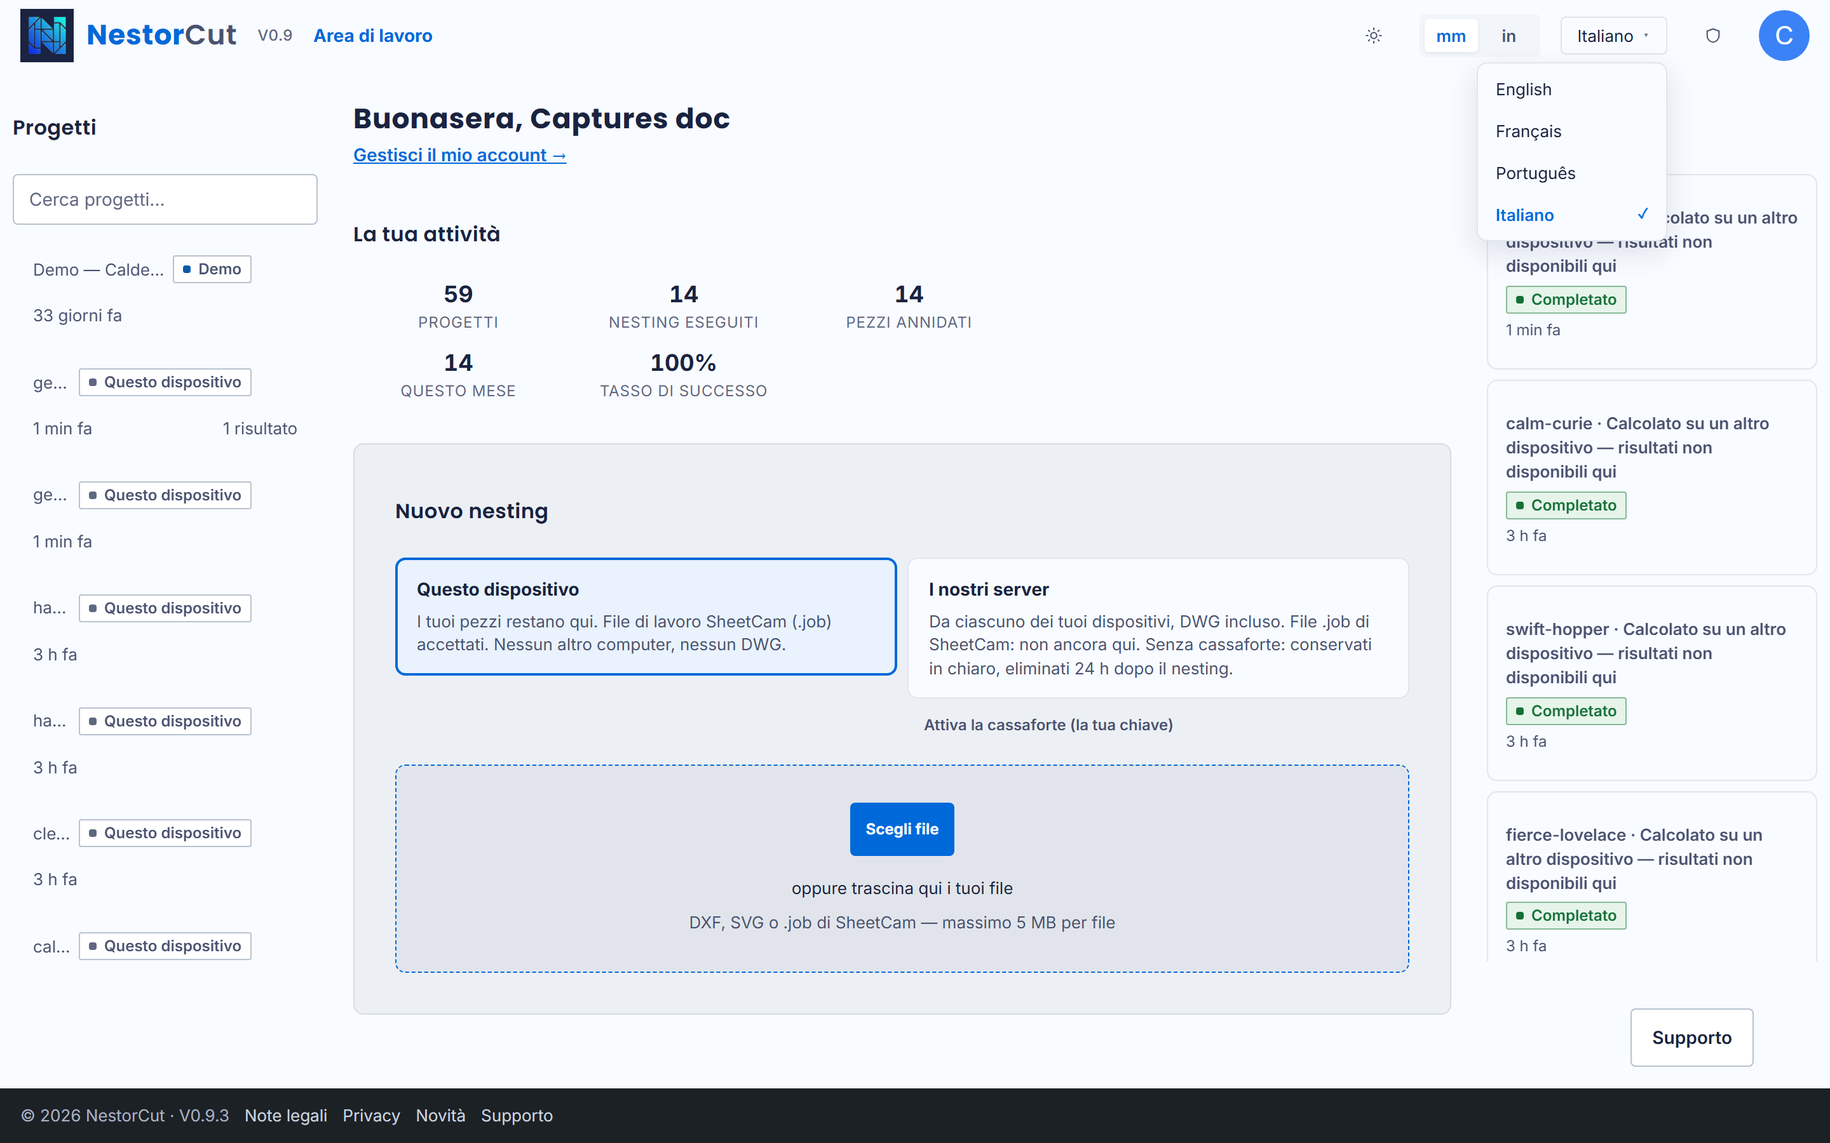
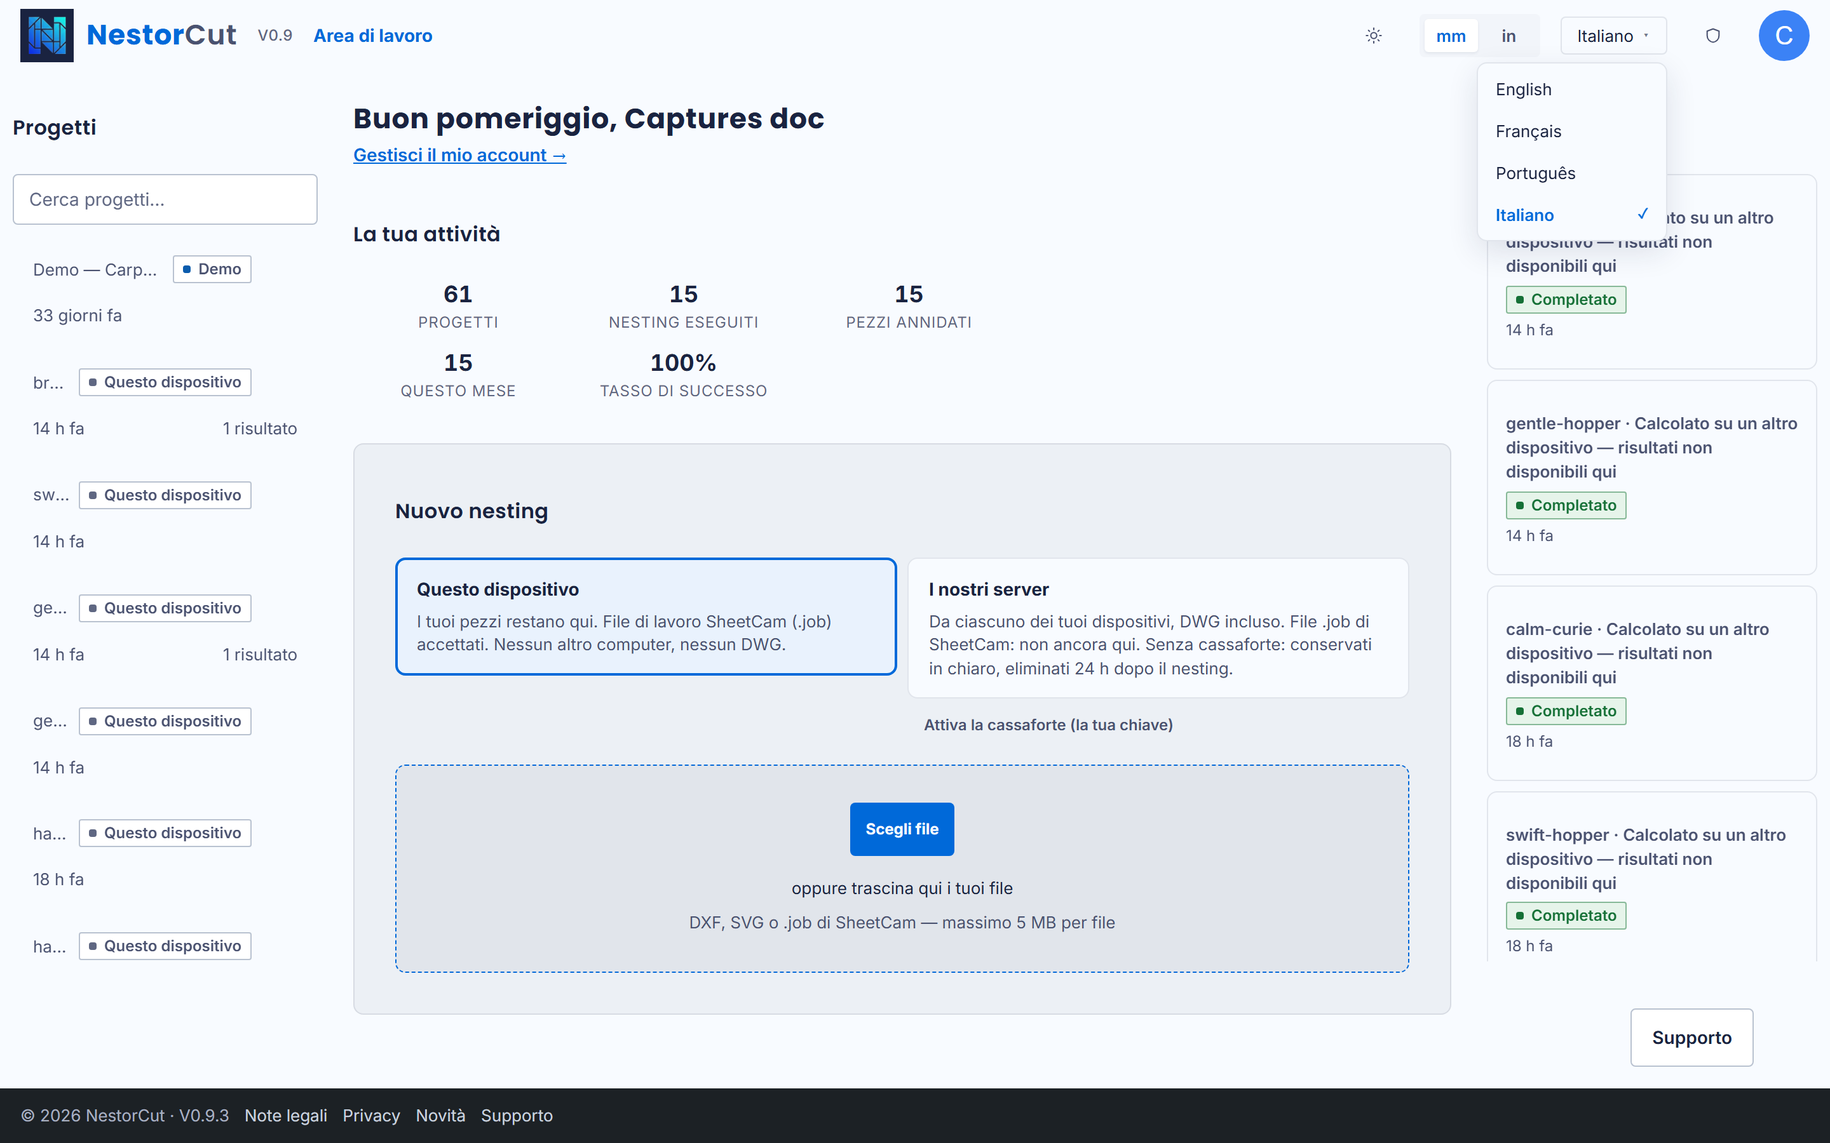
fix(i18n,units): révision paquet A L2 — longueurs à la locale (defaut FR corrige aussi), 9 corrections + 3 retouches IT
fmtLength/fmtLengthValue passent par Intl avec la balise de la langue
(useUnit traverse, comme fmtArea) ; useGrouping: false garde les
milliers non groupes comme trimFixed ; l'export CSV reste au point
(util brut). Verrou units.test.js : 1040,4 mm en it/fr, 1040.4 en en.
Neuf corrections de langue + trois retouches de la relecture. Captures
reprises : 15 sondes vertes, la capture 06 montre « Distanza >= 5,87 mm ».

diff --git a/app/utils/i18n/it.js b/app/utils/i18n/it.js
@@ -82,7 +82,7 @@ export default {
     "sub.error.startPro": "Impossibile avviare l'abbonamento Pro. Riprova.",
     "sub.error.cancel": "Impossibile disdire l'abbonamento. Riprova.",
     "plans.title": "Piani e prezzi",
-    "plans.subtitle": "Inizia gratis, passa oltre quando il risparmio di materiale parla da solo.",
+    "plans.subtitle": "Inizia gratis, passa a un piano superiore quando il risparmio di materiale parla da solo.",
     "plans.interval.forever": "per sempre",
     "plans.interval.month": "mese",
     "plans.compare": "Confronta i piani",
@@ -98,7 +98,7 @@ export default {
     "plans.free.f2": "Stesso risultato pienamente ottimizzato dei piani a pagamento",
     "plans.free.f3": "Esportazione DXF e ZIP",
     "plans.free.f4": "Cassaforte zero-knowledge (facoltativa)",
-    "plans.unlimited.desc": "Per maker e officine che annidano ogni settimana.",
+    "plans.unlimited.desc": "Per carpenterie e officine che fanno nesting ogni settimana.",
     "plans.unlimited.f1": "Operazioni di nesting illimitate",
     "plans.unlimited.f2": "3 direzioni di ottimizzazione per lavoro",
     "plans.unlimited.f3": "Lavori multi-lamiera",
@@ -106,7 +106,7 @@ export default {
     "plans.unlimited.f5": "Cassaforte zero-knowledge (facoltativa)",
     "plans.pro.desc": "Budget motore massimo e consegna prioritaria.",
     "plans.pro.f1": "Tutto ciò che è in Unlimited",
-    "plans.pro.f2": "8 nuclei di calcolo — consegna la più rapida",
+    "plans.pro.f2": "8 nuclei di calcolo — la consegna più rapida",
     "plans.pro.f3": "Coda prioritaria",
     "plans.cta.startFree": "Inizia gratis",
     "plans.cta.startTrial": "Avvia la prova di {days} giorni",
@@ -177,7 +177,7 @@ export default {
     "settings.fillHoles": "Annida nei fori",
     "settings.fillHolesHint": "Quando attivo, i pezzi più piccoli possono essere collocati dentro i ritagli interni dei pezzi forati. Disattivalo per tenere i ritagli vuoti.",
     "demo.badge": "Demo",
-    "demo.projectName": "Demo — Caldereria navale",
+    "demo.projectName": "Demo — Carpenteria navale",
     "demo.banner": "Progetto di esempio in sola lettura: {n} nesting demo gratuiti al mese, qualità piena del motore nel tuo browser (1 direzione per nesting, a scelta tra 3). Quantità e impostazioni sono regolabili — provala pure.",
     "demo.bannerLocal": "Progetto di esempio in sola lettura, calcolato su questo dispositivo — nesting demo illimitati. Una direzione per esecuzione, a scelta tra 3. Quantità e impostazioni sono regolabili.",
     "demo.remaining": "{n} / {total} nesting demo rimasti questo mese",
@@ -249,10 +249,10 @@ export default {
     "import.unitImplausible": "Il file dichiara {value} — geometria convertita come dichiarato. Controlla le dimensioni prima di tagliare.",
     "import.splinesSampled": "{n} spline campionate.",
     "import.microVoidsFilled": "{n} micro-ritagli ignorati (troppo piccoli per essere tagliati) — il materiale resta al suo posto.",
-    "import.spursRemoved": "{n} andata-e-ritorno a larghezza zero ripulite.",
-    "import.scaleApplied": "Disegno scalato di ×{value} all'importazione.",
+    "import.spursRemoved": "{n} tracciati di andata e ritorno a larghezza zero rimossi.",
+    "import.scaleApplied": "Disegno ridimensionato ×{value} all'importazione.",
     "import.partRank": "pezzo {n}",
-    "nest.thinParts": "{n} pezzo/i con linee più sottili della distanza richiesta ({list}) — il motore li ha preparati in modo diverso; controllali prima di tagliare.",
+    "nest.thinParts": "{n} pezzo/i con tratti più sottili della distanza richiesta ({list}) — il motore li ha preparati in modo diverso; controllali prima di tagliare.",
     "import.blocksFlattened": "{n} blocchi appiattiti.",
     "import.andMore": "e altri {n}",
     "import.findingsTitle": "Rapporto di importazione",
@@ -387,7 +387,7 @@ export default {
     "live.evalsTitle": "Combinazioni di posizionamento valutate finora (tutti i worker sommati)",
     "live.combinations": "combinazioni",
     "live.layouts": "disposizioni",
-    "live.layoutsTitle": "Ricostruzioni complete del packing provate finora — ognuna colloca ogni pezzo",
+    "live.layoutsTitle": "Ricostruzioni complete del nesting provate finora — ognuna colloca ogni pezzo",
     "live.cores": "nuclei",
     "live.finishing": "Completamento dell'ultima lamiera",
     "live.elapsed": "trascorso",
@@ -395,8 +395,8 @@ export default {
     "live.score": "densità della striscia",
     "live.scoreTitle": "Utilizzo della lamiera della migliore disposizione attuale",
     "live.waiting": "Cerco una prima disposizione…",
-    "live.statusLine": "Ricerca · {time} · migliore {score} · {n} ricerca/ricerche in parallelo · si ferma da solo allo stallo",
-    "live.statusLine.noScore": "Ricerca · {time} · {n} ricerca/ricerche in parallelo · si ferma da solo allo stallo",
+    "live.statusLine": "Ricerca · {time} · migliore {score} · {n} ricerca/ricerche in parallelo · arresto automatico allo stallo",
+    "live.statusLine.noScore": "Ricerca · {time} · {n} ricerca/ricerche in parallelo · arresto automatico allo stallo",
     "live.holesNote": "i pezzi annidati nei ritagli compaiono nel risultato finale",
     "nest.coresTitle": "{n} nucleo/i di calcolo al lavoro",
     "alts.strategy.left": "–X",
@@ -405,7 +405,7 @@ export default {
     "alts.strategy.grid": "Griglia",
     "alts.strategy.max offcut": "Max ritaglio",
     "alts.strategy.compact": "Compatto",
-    "alts.explain.grid": "File regolari — tagli prevedibili, ritaglio riutilizzabile più pulito. Proposta quando il motivo dei pezzi si presta.",
+    "alts.explain.grid": "Righe regolari — tagli prevedibili, ritaglio riutilizzabile più pulito. Proposta quando il motivo dei pezzi si presta.",
     "alts.explain.compact": "Disposizione più serrata — minimizza la superficie usata.",
     "report.utilization": "Utilizzo della lamiera",
     "report.areas": "{parts} di pezzi · {free} liberi",
@@ -415,7 +415,7 @@ export default {
     "report.insideSheet": "Dentro la lamiera",
     "report.spacing": "Distanza ≥ {v} {unit}",
     "report.allPlaced": "Tutti i {n} pezzi collocati",
-    "report.postPass": "Post-pass: {n} spostati{rb}{e}",
+    "report.postPass": "Post-elaborazione: {n} spostati{rb}{e}",
     "report.notVerified": "Non verificato",
     "report.duplicates": "{n} pose duplicate",
     "report.unplaced": "{n} pezzi non collocati (stock limitato)",
@@ -488,7 +488,7 @@ export default {
     "upload.rejectedServer": "Ignorati — {names}: sui nostri server sono accettati solo DXF, SVG e DWG.",
     "upload.dwgNamed": "Ignorati — {names}: i file DWG vengono convertiti sui nostri server — scegli \"I nostri server\" per questi.",
     "upload.oversizeNamed": "Ignorati — {names}: ogni file deve essere al massimo 5 MB.",
-    "home.jobSwitched": "Rilevato un .job di SheetCam — progetto passato a \"Questo dispositivo\", la modalità che li annida.",
+    "home.jobSwitched": "Rilevato un .job di SheetCam — progetto passato a \"Questo dispositivo\" per elaborarlo.",
     "home.jobPlusDwg": "Un .job di SheetCam richiede \"Questo dispositivo\"; un DWG richiede \"I nostri server\". Caricali in due progetti separati.",
     "jobImport.keepoutDeclared": "Questo file di lavoro dichiara una zona di esclusione sulla lamiera (Work/keepout) che NestorCut non può ancora rispettare — il nesting potrebbe collocare pezzi al suo interno.",
     "jobImport.userPoint": "Punto di partenza posizionato a mano — lasciato così com'è.",
@@ -533,7 +533,7 @@ export default {
     "result.densityShort": "materiale",
     "result.offcutShort": "ritaglio {w} × {h}",
     "result.whyFirst": "Mostrata per prima — ritaglio pulito più grande",
-    "result.whyFirstGrid": "Mostrata per prima — file regolari, tagli prevedibili",
+    "result.whyFirstGrid": "Mostrata per prima — righe regolari, tagli prevedibili",
     "result.sheetsCount": "{n} lamiere",
     "result.sheetsCountOne": "1 lamiera",
     "result.sheetOffcut": "Ritaglio della lamiera {n}: {w} × {h} {unit}",

diff --git a/app/tests/units.test.js b/app/tests/units.test.js
@@ -1,0 +1,35 @@
+// Relecture A L2 (20/09) — les LONGUEURS suivent la langue, comme les
+// aires depuis L1. Le point décimal « 1040.4 mm » était un défaut produit
+// EN PRODUCTION FRANÇAISE, sorti de la capture italienne du paquet A
+// (badge « Distanza ≥ 5.87 mm » avec un point, là où la carte écrivait
+// « 1,24 m² » avec une virgule). Verrou exigé par la relecture :
+// fmtLength(1040.4, 'mm', 'it'|'fr') ⇒ « 1040,4 mm », 'en' ⇒ « 1040.4 mm ».
+import { describe, expect, it } from 'vitest'
+import { fmtLength, fmtLengthValue } from '../utils/units'
+
+describe('fmtLength suit la locale (relecture A L2)', () => {
+    it('la virgule décimale suit la langue de l\'application', () => {
+        expect(fmtLength(1040.4, 'mm', 'it')).toBe('1040,4 mm')
+        expect(fmtLength(1040.4, 'mm', 'fr')).toBe('1040,4 mm')
+        expect(fmtLength(1040.4, 'mm', 'pt')).toBe('1040,4 mm')
+        expect(fmtLength(1040.4, 'mm', 'en')).toBe('1040.4 mm')
+    })
+
+    it('l\'espacement du badge : 5,87 en FR/IT, 5.87 en EN', () => {
+        expect(fmtLengthValue(5.87, 'mm', 2, 'it')).toBe('5,87')
+        expect(fmtLengthValue(5.87, 'mm', 2, 'fr')).toBe('5,87')
+        expect(fmtLengthValue(5.87, 'mm', 2, 'en')).toBe('5.87')
+    })
+
+    it('sans locale (chemins machine — export CSV), le point reste', () => {
+        expect(fmtLengthValue(1040.4, 'mm')).toBe('1040.4')
+        expect(fmtLengthValue(5.87, 'mm', 2)).toBe('5.87')
+    })
+
+    it('zéros de queue trimmés, entiers entiers, pouces localisés', () => {
+        expect(fmtLengthValue(1000.0, 'mm', undefined, 'fr')).toBe('1000')
+        // 48,5 mm = 1,909" — la valeur d'entrée est TOUJOURS en mm.
+        expect(fmtLengthValue(48.5, 'inch', undefined, 'en')).toBe('1.909')
+        expect(fmtLengthValue(48.9, 'inch', undefined, 'fr')).toBe('1,925')
+    })
+})

diff --git a/app/utils/units.js b/app/utils/units.js
@@ -123,19 +123,30 @@ function trimFixed(v, decimals) {
  * strings). mm: 0.1 resolution; inch: 0.001" resolution (0.0254 mm — far
  * below any real kerf, so display rounding has no business impact).
  * Pass `decimals` to override (e.g. 2 for sub-mm spacing gaps).
+ *
+ * Relecture A L2 (20/09) : les LONGUEURS passent par Intl comme les aires —
+ * un FR/IT lit « 1040,4 mm », pas « 1040.4 mm » (défaut produit sorti de la
+ * capture italienne, présent en prod FR). Sans locale (chemins machine :
+ * export CSV — la virgule y casserait les colonnes), 'en' garde le point.
  */
-export function fmtLengthValue(mm, unit, decimals) {
+export function fmtLengthValue(mm, unit, decimals, locale) {
     const v = mmToDisplay(mm, unit)
     if (!Number.isFinite(v)) return '—'
     const d = decimals ?? (unit === 'inch' ? 3 : 1)
-    return trimFixed(v, d)
+    // useGrouping: false — le verrou exige « 1040,4 mm » (et l'ancien
+    // trimFixed ne groupait JAMAIS les milliers : pas de regression).
+    return new Intl.NumberFormat(intlTag(locale || 'en'), {
+        minimumFractionDigits: 0,
+        maximumFractionDigits: d,
+        useGrouping: false,
+    }).format(v)
 }
 
 /**
  * Length for display (includes the unit suffix).
  */
-export function fmtLength(mm, unit) {
-    const s = fmtLengthValue(mm, unit)
+export function fmtLength(mm, unit, locale) {
+    const s = fmtLengthValue(mm, unit, undefined, locale)
     if (s === '—') return s
     return unit === 'inch' ? `${s}"` : `${s} mm`
 }

diff --git a/app/components/ResultModal.vue b/app/components/ResultModal.vue
@@ -50,7 +50,7 @@ import { sizeType } from '~~/constants/size.constants'
 import { themeType } from '~~/constants/theme.constants'
 import { statusType } from '~~/constants/status.constants'
 import { trackEvent } from '~/utils/track'
-import { SQMM_PER_SQIN } from '~/utils/units'
+import { SQMM_PER_SQIN, fmtLengthValue as fmtLengthValueRaw } from '~/utils/units'
 import { displayDirectionArrow } from '~/utils/sheetView'
 import { onMounted, nextTick } from 'vue'
 import { reportExportState } from '~/utils/reportExport'
@@ -413,7 +413,9 @@ const exportCsv = () => {
     const isInch = unref(unit) === 'inch'
     const lenUnit = isInch ? 'in' : 'mm'
     const areaUnit = isInch ? 'in2' : 'mm2'
-    const csvLen = (mm) => fmtLengthValue(mm)
+    // CSV = chemin MACHINE : l'util brut, sans locale — la virgule
+    // décimale FR/IT y casserait les colonnes (relecture A L2).
+    const csvLen = (mm) => fmtLengthValueRaw(mm)
     const csvArea = (mm2) => (isInch ? (mm2 / SQMM_PER_SQIN).toFixed(1) : String(Math.round(mm2)))
     const reusableLabel = (off) => (off.reusable ? t('report.offcut.reusable') : t('report.offcut.scrap'))
     const headers = [

diff --git a/app/composables/useUnit.js b/app/composables/useUnit.js
@@ -105,13 +105,17 @@ export function useUnit() {
     }
 
     // Bound helpers — components just call fmtLength(mmValue).
+    // Relecture A L2 : la balise de la langue de l'APP traverse pour les
+    // LONGUEURS aussi, comme fmtArea depuis L1 — un FR/IT lit « 1040,4 mm ».
+    // (L'export CSV n'utilise PAS ces wrappers : il importe l'util brut,
+    // sans locale, pour garder le point décimal.)
     return {
         unit,
         setUnit,
         enabled,
         unitLabel: computed(() => unitLabel(unit.value)),
-        fmtLength: (mm) => fmtLength(mm, unit.value),
-        fmtLengthValue: (mm, decimals) => fmtLengthValue(mm, unit.value, decimals),
+        fmtLength: (mm) => fmtLength(mm, unit.value, localeState().value),
+        fmtLengthValue: (mm, decimals) => fmtLengthValue(mm, unit.value, decimals, localeState().value),
         // Jalon A (réserve) : la balise de la langue de l'APP traverse —
         // fmtArea formate selon la locale choisie, pas celle du système.
         fmtArea: (mm2) => fmtArea(mm2, unit.value, localeState().value),

diff --git a/docs/PLAN-LANGUES-2026-09-16.md b/docs/PLAN-LANGUES-2026-09-16.md
@@ -1848,3 +1848,101 @@ générée par `sync-changelog` au paquet P).
 
 **État** : prêt pour la relecture des 747 chaînes et des captures. `it`
 reste sur la branche `l2-italiano` jusqu'au GO final — rien de publié.
+
+## Relecture du paquet A de L2 (`53a9cbb2`) — vérificateur, 20/09 — NO-GO : un défaut produit, neuf corrections de langue
+
+Rejoué sur l'image reconstruite : vitest **807/807 code 0** ; **ma parité
+indépendante** : 747 clés des deux côtés, 0 manquante, 0 orpheline,
+**0 écart de variables**, aucune fuite de français ni de portugais ; le
+pluriel est juste (seul 1 est singulier, « Annida 1 pezzo » à la capture) ;
+**`INTL_TAGS` est centralisée** dans le registre et `units.js` l'importe —
+le piège n° 3 est refermé, une langue de plus n'ajoutera pas de copie ; le
+badge dit **« Distanza ≥ »** et non « Margine » — la leçon de sens de L1
+tient. **Les neuf captures regardées** : l'italien est propre à l'écran,
+« Nesting in diretta », « Disposizione finale », « Fattibile », « Utilizzo
+del materiale », « Senza sovrapposizioni », « Dentro la lamiera », « Scarica
+il .job ». Le glossaire est respecté partout : lamiera, kerf, entrata /
+uscita di taglio, punto di sfondamento, ritaglio, sfrido, striscia, annidare
+nei fori.
+
+### A. Un défaut produit, révélé par la capture italienne — les longueurs ignorent la langue
+
+Sur `06-resultat-it.png` : **« Distanza ≥ 5.87 mm »** et « Ritaglio pulito
+1000 × 1040.4 mm » — point décimal, alors que la même carte affiche
+« 0,7 % » et « 1,24 m² » avec la virgule. Cause : `fmtLengthValue`
+(`app/utils/units.js`) formate par `trimFixed`, un `toFixed` nu, sans
+locale — là où `fmtArea` et `formatNumber` passent par `Intl`.
+
+**Ce n'est pas un défaut italien : il est en production aujourd'hui, en
+français.** Il n'avait pas été vu parce que les jeux d'essai français et
+portugais donnaient des longueurs entières ; l'espacement de 5,87 mm de la
+capture italienne l'a fait sortir. Même famille que le `fmtArea` attrapé au
+jalon A de L1, même correctif : `fmtLength` / `fmtLengthValue` reçoivent la
+balise de langue de l'application, comme `fmtArea`, et un verrou l'exige —
+`fmtLength(1040.4, 'mm', 'it')` ⇒ « 1040,4 mm », `'fr'` ⇒ « 1040,4 mm »,
+`'en'` ⇒ « 1040.4 mm ».
+
+### B. Neuf corrections de langue
+
+| Clé | Lu | Retenu | Pourquoi |
+|---|---|---|---|
+| `demo.projectName` | Demo — **Caldereria** navale | **Carpenteria navale** | « caldereria » n'est pas de l'italien — calque de l'espagnol *calderería* / du portugais *caldeiraria* |
+| `import.scaleApplied` | Disegno **scalato** di ×{value} | **Disegno ridimensionato ×{value}** | anglicisme ; même correction qu'en portugais |
+| `report.postPass` | **Post-pass** | **Post-elaborazione** | calque ; même correction qu'en portugais |
+| `nest.thinParts` | pezzo/i con **linee** più sottili | **tratti** più sottili | un trait de dessin est un *tratto* ; même correction qu'en portugais (*linhas* ⇒ *traços*) |
+| `plans.pro.f2` | consegna **la più rapida** | **la consegna più rapida** | ordre des mots fautif |
+| `import.spursRemoved` | {n} andata-e-ritorno a larghezza zero **ripulite** | **{n} tracciati di andata e ritorno a larghezza zero rimossi.** | accord faux (masculin) et tournure lourde |
+| `plans.subtitle` | **passa oltre** quando il risparmio… | **passa a un piano superiore** | « passa oltre » veut dire « passe ton chemin » |
+| `plans.unlimited.desc` | Per **maker** e officine che **annidano** ogni settimana | **Per carpenterie e officine che fanno nesting ogni settimana** | anglicisme là où l'anglais dit *fabricators* ; et « nesting » est le mot gardé |
+| `alts.explain.grid`, `result.whyFirstGrid` | **File** regolari | **Righe regolari** | *file* = rangées, mais l'interface emploie « file » au sens informatique une vingtaine de fois (« {n} file », « Scegli file », « File DXF ») : à l'écran, « File regolari » se lit « fichiers réguliers » |
+
+Trois retouches de surface à emporter avec : `live.statusLine` « si ferma da
+solo allo stallo » ⇒ **« arresto automatico allo stallo »** (forme nominale,
+comme les trois autres langues) ; `home.jobSwitched` « la modalità che li
+annida » ⇒ **« per elaborarlo »** ; `live.layoutsTitle` « del **packing** »
+⇒ « del nesting ».
+
+### C. La branche n'est pas poussée
+
+`l2-italiano` n'existe qu'en local : `git ls-remote` ne la voit pas. À
+pousser — le travail d'un paquet ne doit pas vivre sur un seul disque.
+
+### Décision
+
+**NO-GO paquet A.** Le correctif des longueurs (A) part avec, puisqu'il
+touche `units.js` que ce paquet modifie déjà — et il corrige le français en
+même temps. Le reste du paquet est acquis : dictionnaire complet, registre,
+centralisation, captures.
+
+## Révision du paquet A de L2 (implémenteur, 20/09) — les trois points faits
+
+**A. Défaut produit des longueurs — corrigé, et le verrou a mordu deux
+fois.** `fmtLengthValue`/`fmtLength` (`app/utils/units.js`) formulent par
+`Intl.NumberFormat` avec la balise de la langue de l'application —
+`useUnit()` passe la locale comme `fmtArea` depuis L1, aucun composant à
+toucher. Première morsure du verrou : Intl GROUPAIT les milliers
+(« 1 040,4 mm ») — `useGrouping: false` rétablit le comportement d'avant
+(trimFixed ne groupait jamais). Le chemin MACHINE reste au point :
+l'export CSV de `ResultModal` importe l'util brut, sans locale — une
+virgule y casserait les colonnes. Verrou posé
+(`app/tests/units.test.js`, 4 sondes) :
+`fmtLength(1040.4,'mm','it')` ⇒ « 1040,4 mm », `'fr'` ⇒ « 1040,4 mm »,
+`'en'` ⇒ « 1040.4 mm », sans locale ⇒ point. **Vitest complet 811/811
+exit 0** (807 + 4). Le français de production est réparé au passage.
+
+**B. Les neuf corrections et les trois retouches appliquées** dans
+`it.js` (Carpenteria navale, ridimensionato, Post-elaborazione, tratti,
+la consegna più rapida, tracciati di andata e ritorno rimossi, passa a
+un piano superiore, carpenterie e officine che fanno nesting, Righe
+regolari ×2, arresto automatico allo stallo ×2, per elaborarlo, del
+nesting) — balayage anti-restes à zéro, assemblage recontrôlé (747
+clés, ordre EN, variables intactes).
+
+**C. La branche est poussée** : `git push -u origin l2-italiano`.
+
+**Captures reprises** (les 9 de `docs/qa/l2-jalonA/`, passe entière
+rejouée) — **15 sondes textuelles vertes**, dont la nouvelle :
+« longueurs à la virgule décimale italienne » — `06-resultat-it.png`
+montre le badge **« Distanza ≥ 5,87 mm »** (et plus jamais
+« 5.87 mm »), sondé `/Distanza ≥ \d+,\d+ mm/` vert + forme à point
+explicitement absente.
